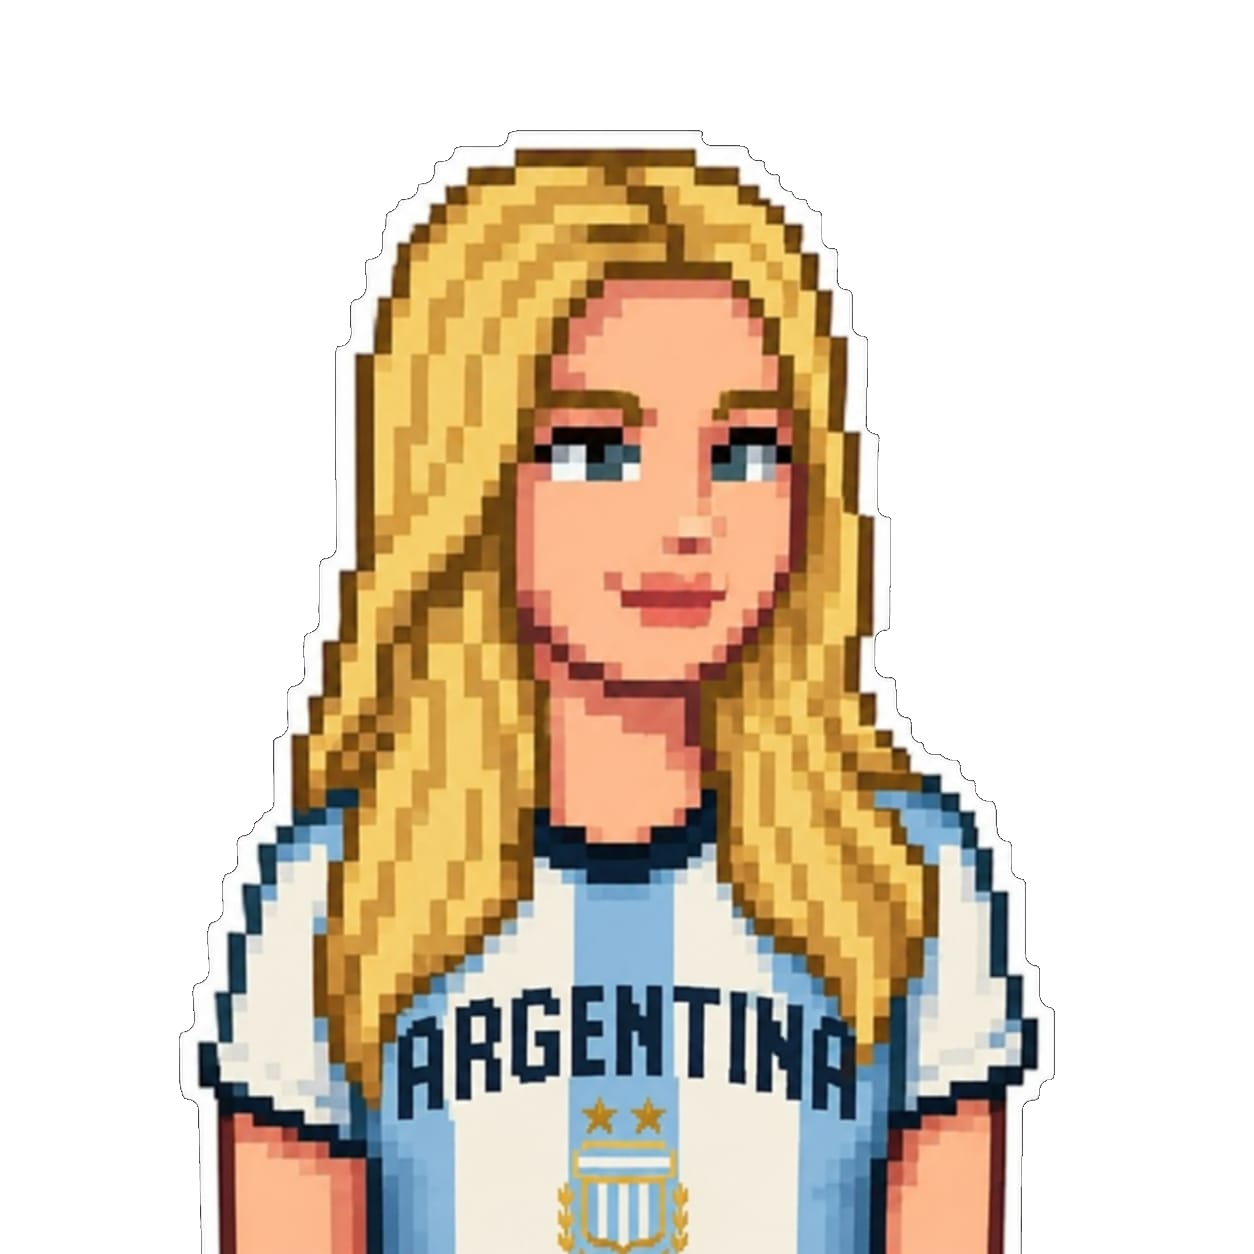
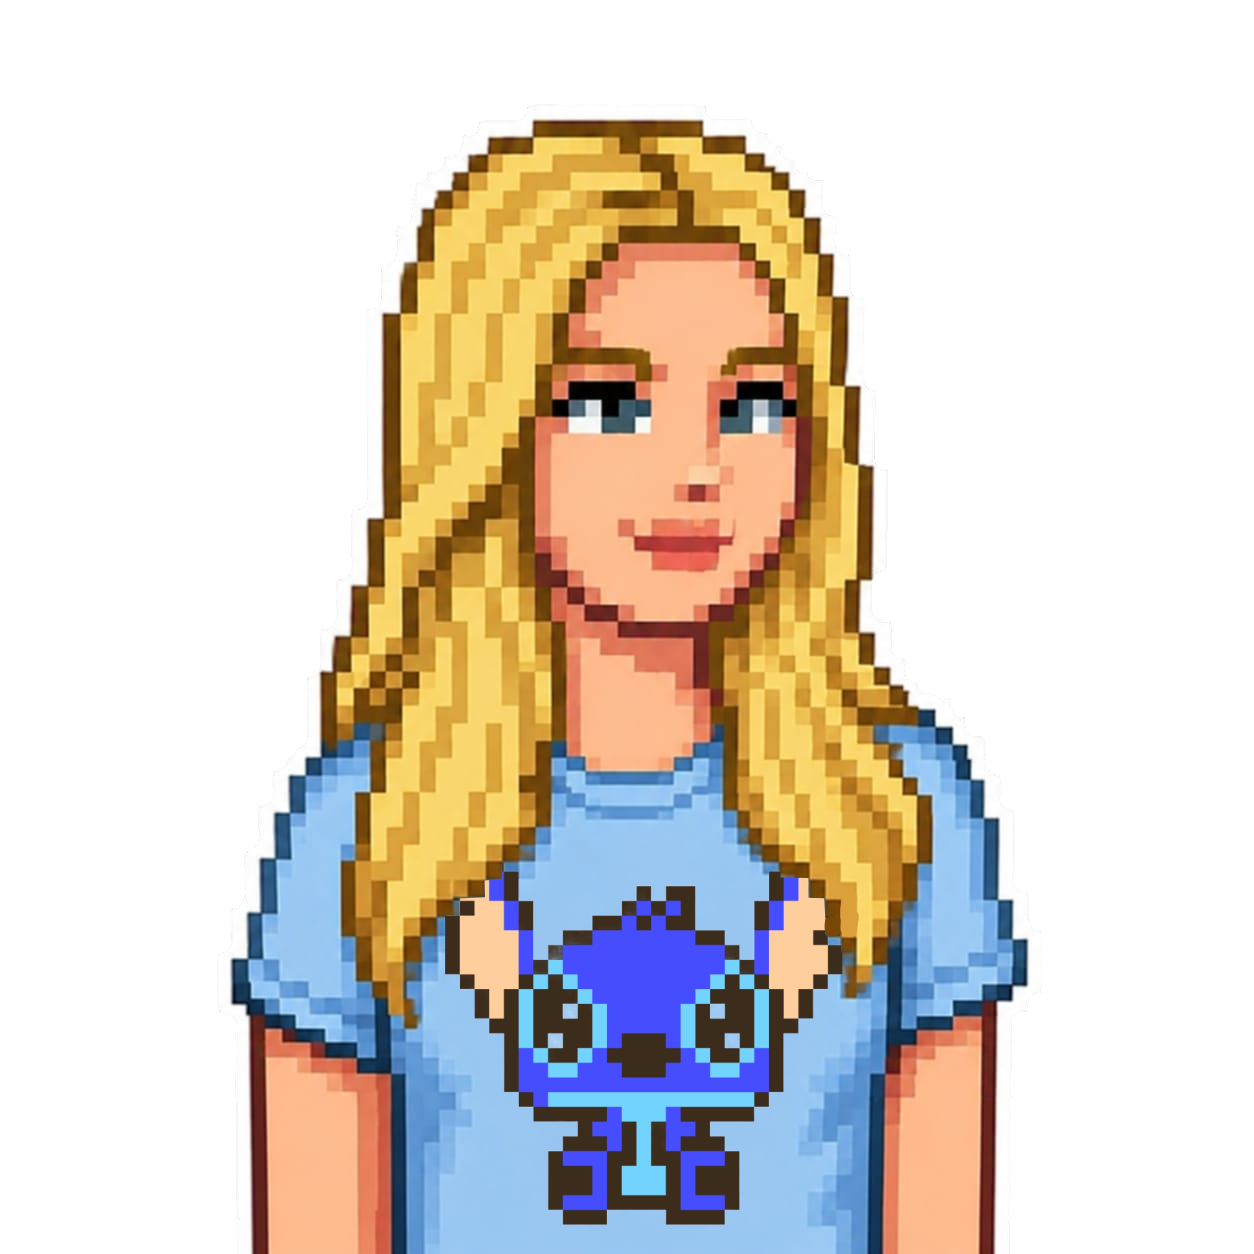
added the rest

diff --git a/script.js b/script.js
@@ -230,6 +230,8 @@ const fotosEspeciais = {
     "ana paula": "fotos/ana paula.png",
     "rey delas": "fotos/rey delas.gif",
     "reynaldo": "fotos/reynaldo.png",
+    "david": "fotos/david.png",
+    "anna luiza": "fotos/anna luiza.png",
     "gabrieli": "fotos/gabrieli.png",
     "pedro lucas": "fotos/pedro lucas.png",
     "emerson": "fotos/emerson.png",
@@ -239,6 +241,7 @@ const fotosEspeciais = {
     "pedro henrique": "fotos/pedro henrique.png",
     "evelyn": "fotos/evelyn.png",
     "keren": "fotos/keren.png",
+    "edinho": "fotos/edinho.png",
     "maria petriaggi": "fotos/maria petriaggi.png"
 };
 
